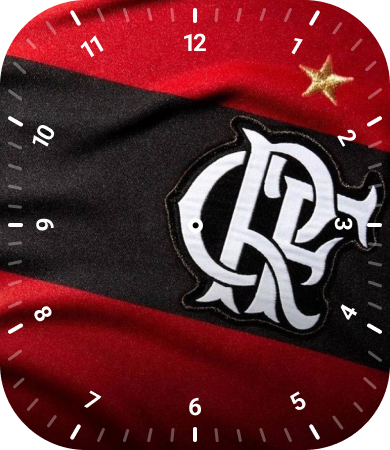
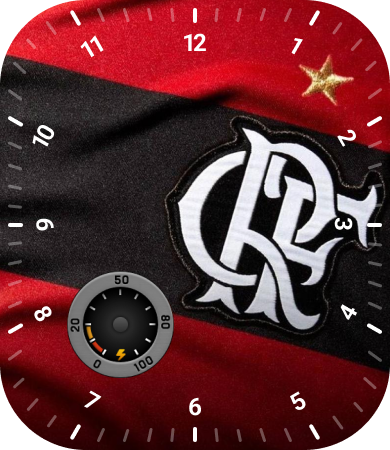
add battery level

Changed region(s): [[0.1538, 0.5911, 0.4615, 0.84], [0.4923, 0.4667, 0.5231, 0.5289]]

diff --git a/watchface/index.js b/watchface/index.js
@@ -26,6 +26,19 @@ WatchFace({
         second_path: "SSS.png",
         enable: !1,
     })
+    hmUI.createWidget(hmUI.widget.IMG_POINTER, {
+      src: "pointerBat.png",
+      center_x: 122,
+      center_y: 322,
+      x: 14,
+      y: 40,
+      type: hmUI.data_type.BATTERY,
+      start_angle: -150,
+      end_angle: 150,
+      cover_x: 0,
+      cover_y: 0,
+      show_level: hmUI.show_level.ONLY_NORMAL
+    })
     // img.addEventListener(hmUI.event.CLICK_DOWN, (info) => {
     //   img.setProperty(hmUI.prop.MORE, {
     //     y: 0
